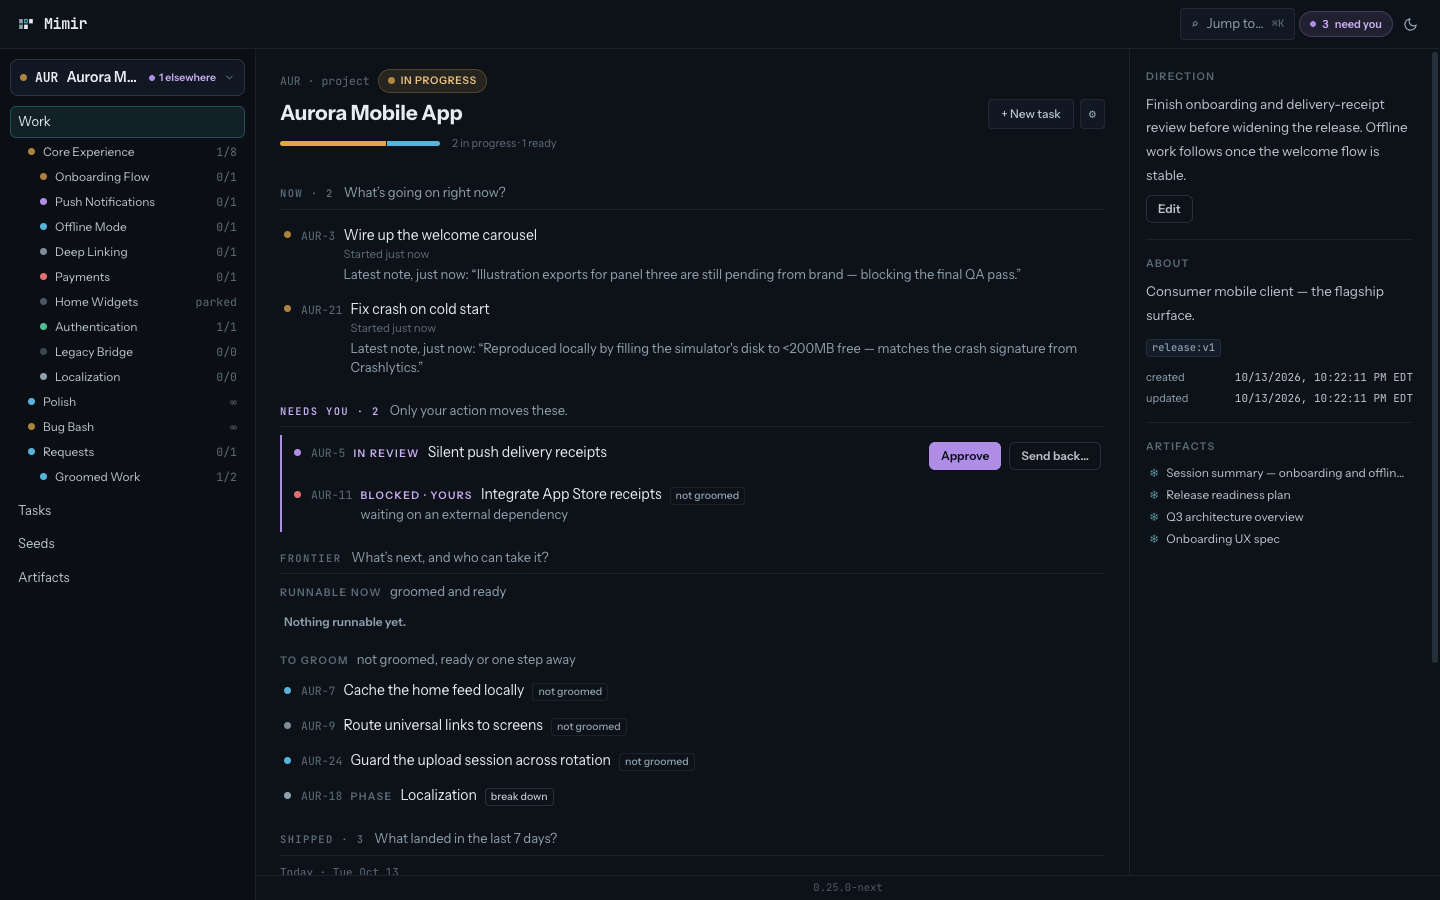
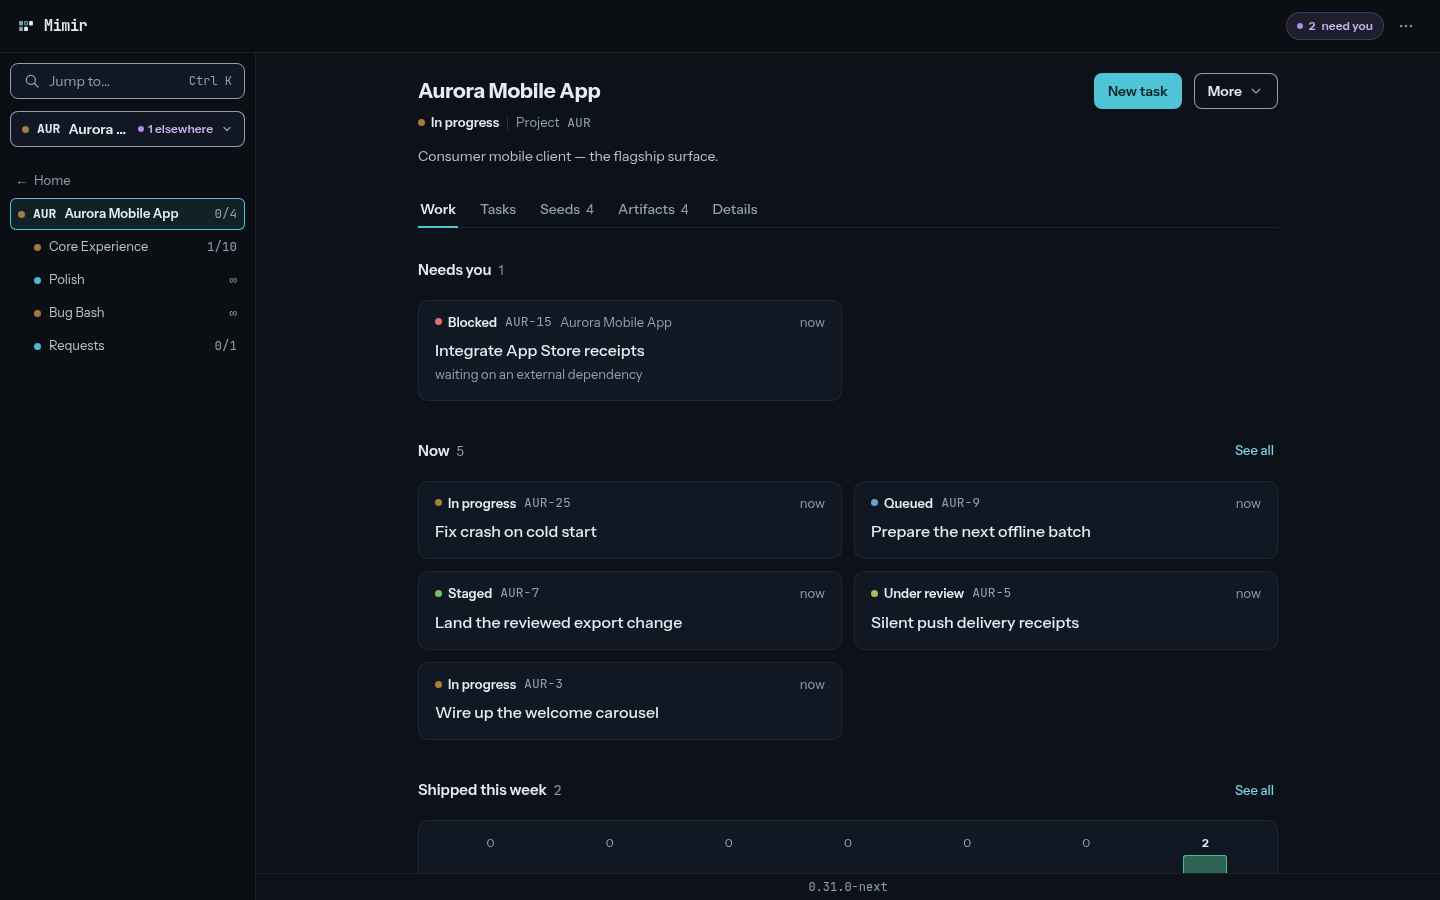
docs: refresh the console screenshots and their alt text for the container sidebar (MMR-730)

diff --git a/README.md b/README.md
@@ -12,7 +12,7 @@ Work state lives in one local SQLite file by default, or in a shared
 PostgreSQL database for agents on several machines. Mimir derives queues, status rollups, blockers, and stale work when queried;
 there is no second cache of project status to keep in sync.
 
-![Mimir root page: the decisions waiting on the operator, then in-flight and shipped work across projects, beside a project health rail](docs/assets/console-overview.png)
+![Mimir Home: the sidebar lists the projects, those that need you first; the page shows the Needs you cards, the work in flight, and what shipped this week](docs/assets/console-overview.png)
 
 ## Why Mimir
 

diff --git a/docs/user/using-the-console.md b/docs/user/using-the-console.md
@@ -10,7 +10,7 @@ For access from another device, `tailscale serve` keeps HTTPS and the
 installable PWA, and a
 [reverse proxy](../guides/host.md#use-a-reverse-proxy) does too.
 
-![Mimir project work page with the project sidebar and outline, and a rail of direction, about, and artifacts](../assets/console-project.png)
+![A Mimir project page: the sidebar shows the project under Home with its initiatives; the page has Work, Tasks, Seeds, Artifacts, and Details tabs, opening on Needs you and Now](../assets/console-project.png)
 
 ## Review what needs you
 
